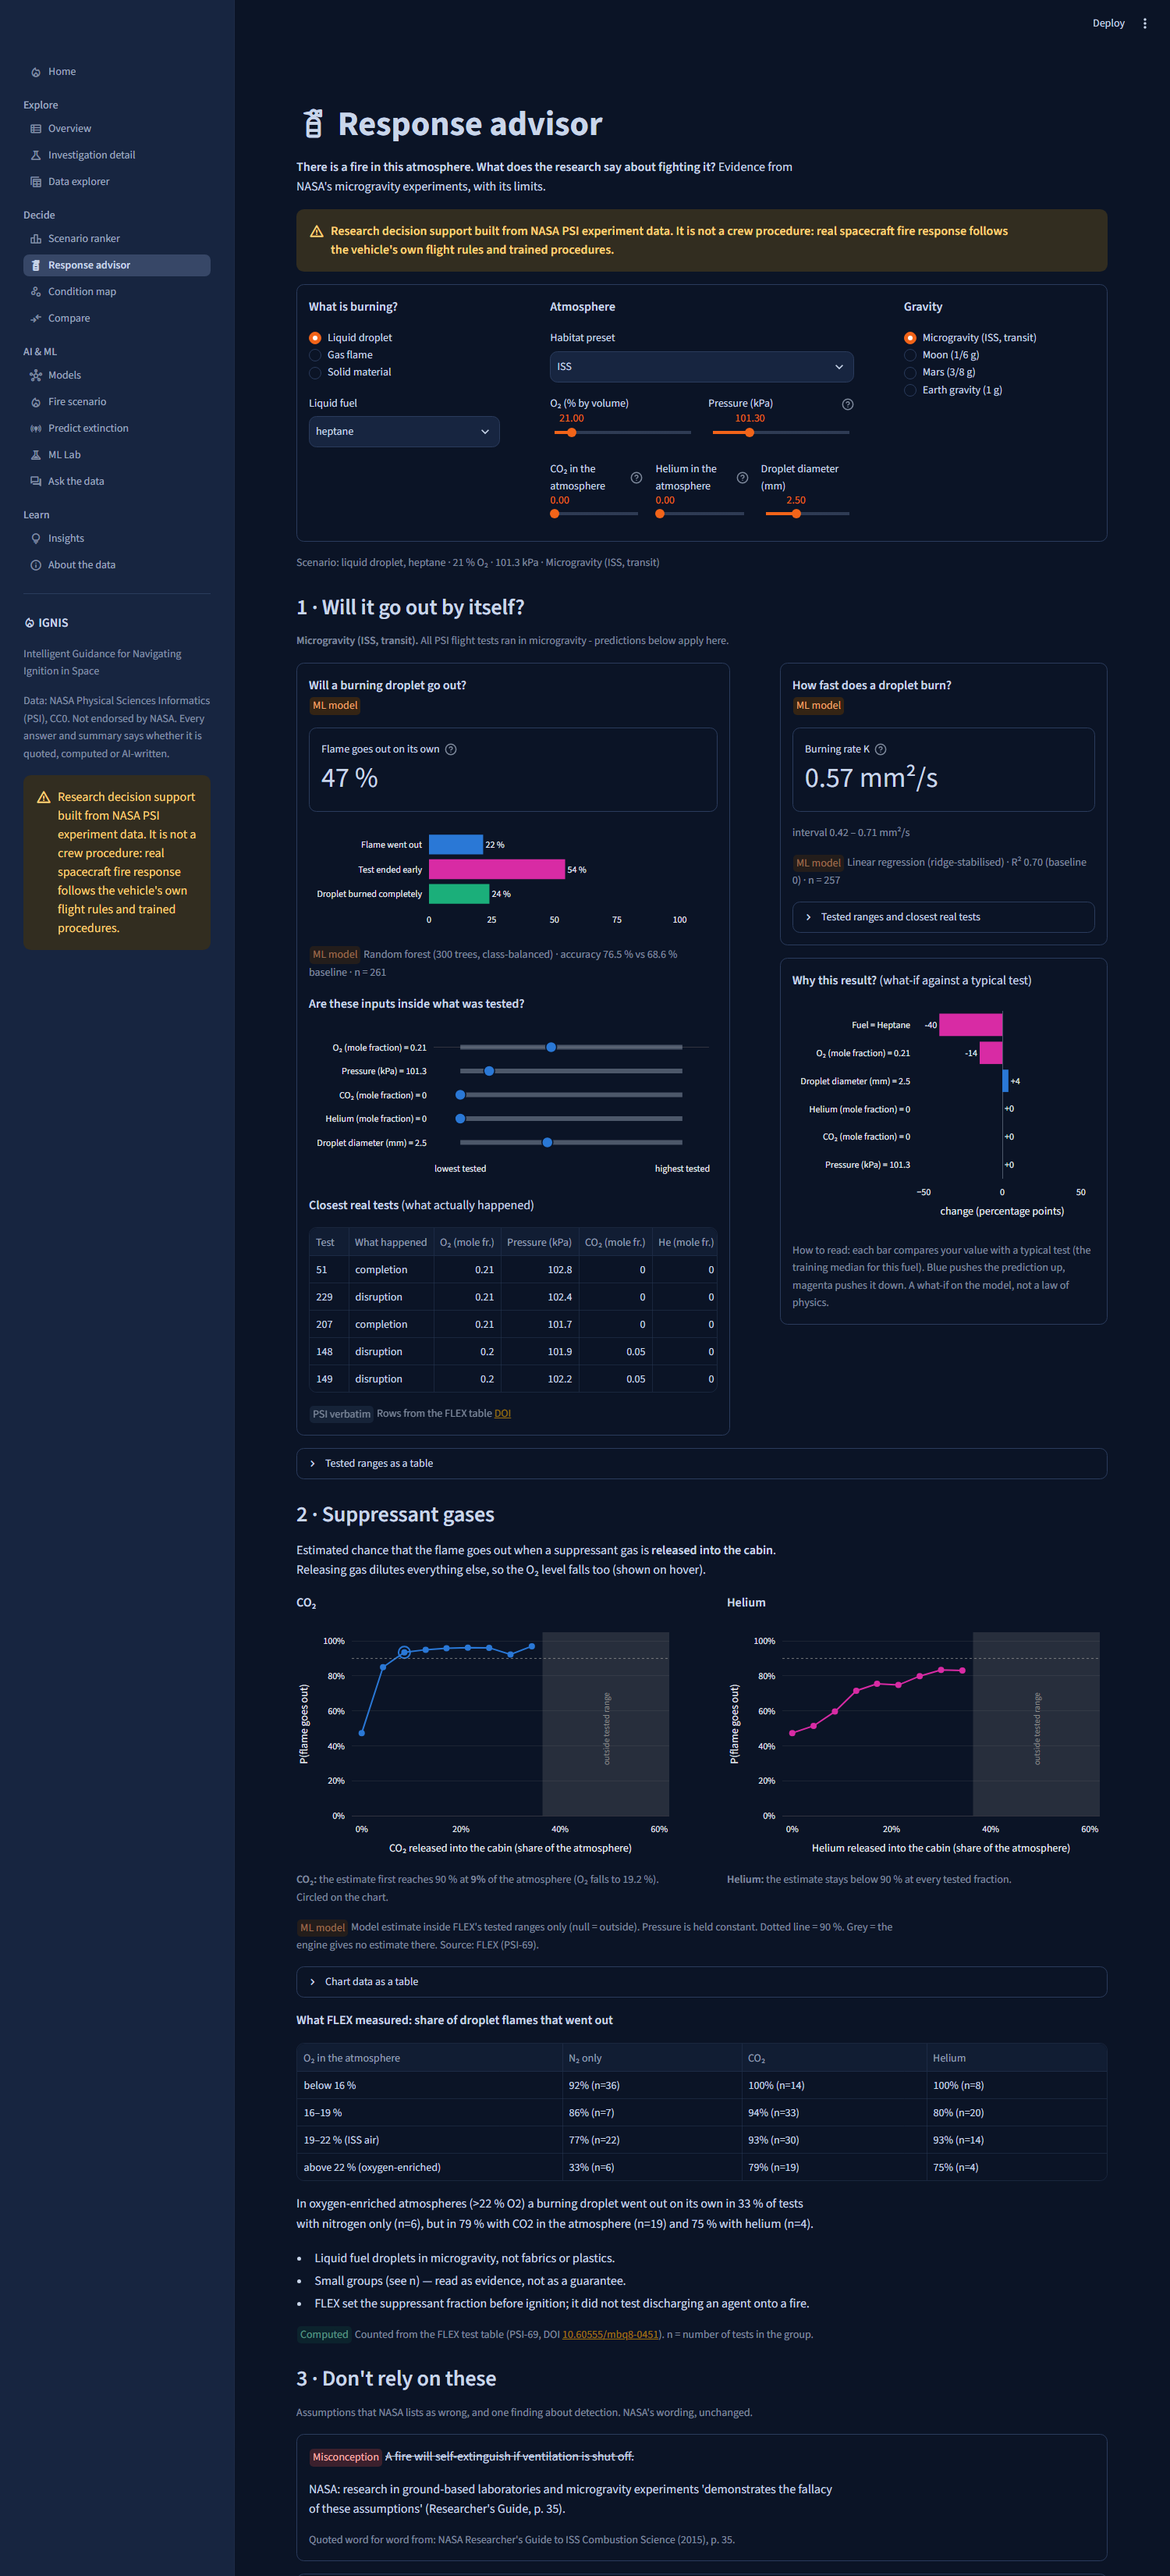
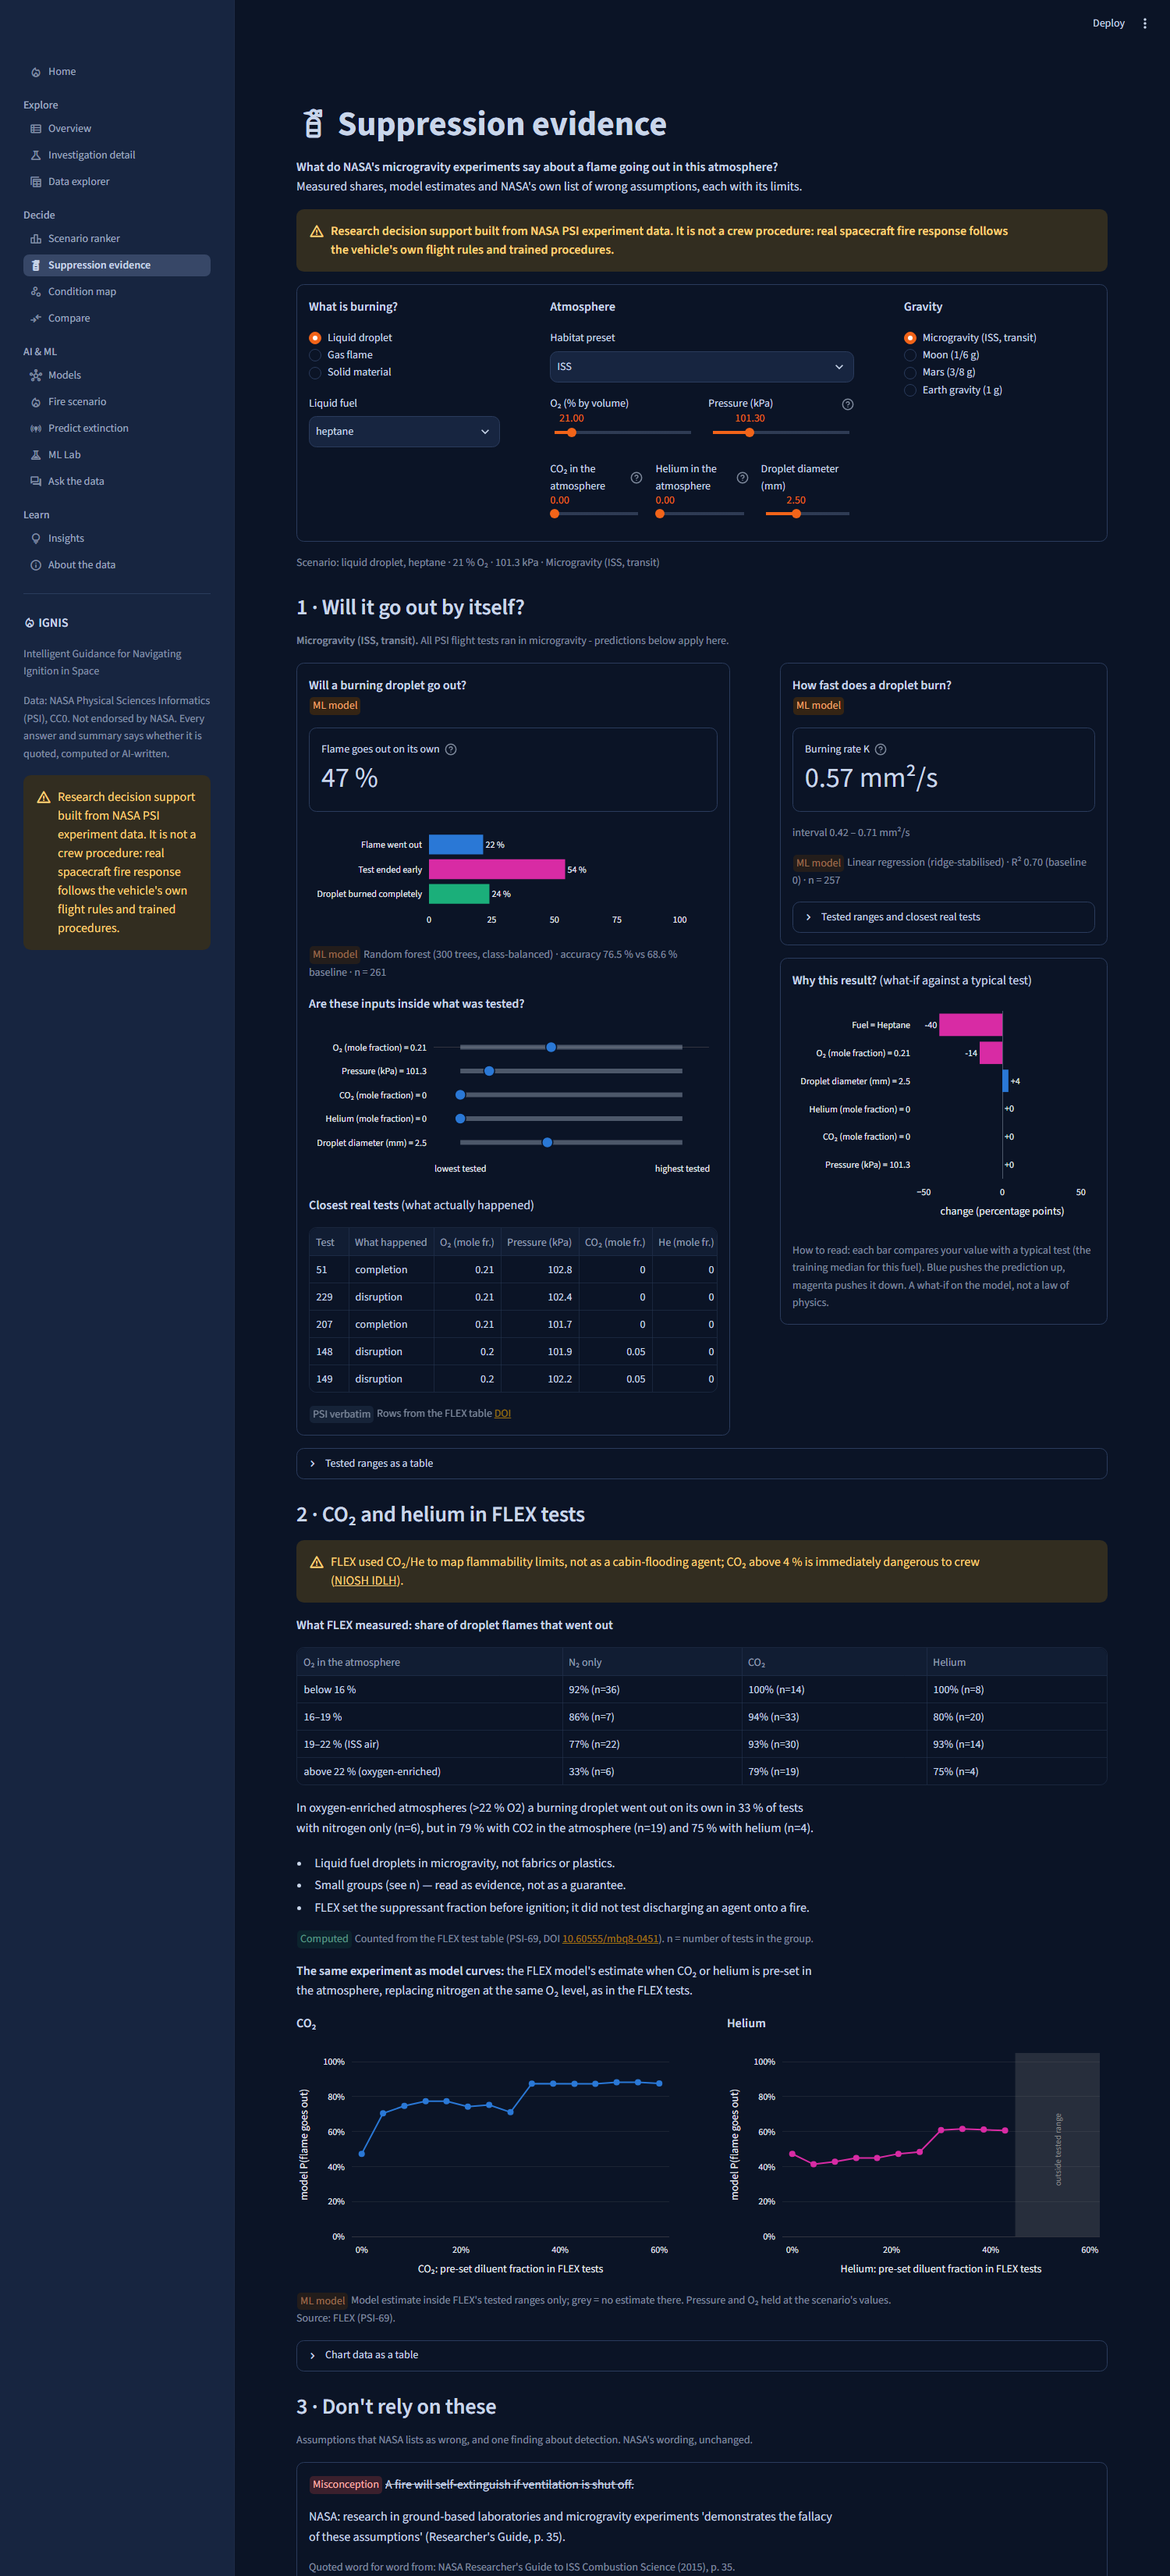
"Suppression evidence" (was Response advisor): no dosing reading, NIOSH caveat, FLEX pre-set curves
#65 item 2 (external review, safety framing):
- Page and nav renamed "Suppression evidence"; URL stays /response so links keep working.
- Removed "released into the cabin", the "first reaches 90 % at X %" call-outs, the 90 % line and the
  circled point. The model curves now come from the scenario engine in "replace_n2" mode (diluent
  replaces nitrogen at the scenario's O2 level, as FLEX pre-set its tests); axis "pre-set diluent
  fraction in FLEX tests", hover "O2 held at …".
- Caveat line at the top of the section, with its source: "FLEX used CO2/He to map flammability limits,
  not as a cabin-flooding agent; CO2 above 4 % is immediately dangerous to crew (NIOSH IDLH)" ->
  https://www.cdc.gov/niosh/idlh/124389.html.
- The counted FLEX shares (33 % / 79 % / 75 % with n) now come first, then the model curves; NASA's
  misconceptions block (p. 35) unchanged.
- Test: none of the removed phrases on the page or in the charts; caveat + source present; counted
  table and misconceptions kept.

Refs #65

diff --git a/app/views/response.py b/app/views/response.py
@@ -1,12 +1,13 @@
-"""Response advisor (#49): what does the research say about fighting a fire in this atmosphere?
-Calls analysis.scenario.response_brief only; the related passages come from ai.qa.ask()."""
+"""Suppression evidence (#49, renamed in #65): what NASA's microgravity experiments say about flames going out in
+this atmosphere, and which assumptions they disproved. Calls analysis.scenario only; the related passages come from
+ai.qa.ask(). URL stays /response so shared links keep working."""
 import streamlit as st
 
 from app import data, fire, ui
 
-ui.page_header("Response advisor", "**There is a fire in this atmosphere. What does the research say about "
-                                   "fighting it?** Evidence from NASA's microgravity experiments, with its limits.",
-               ui.ICONS["response"])
+ui.page_header("Suppression evidence", "**What do NASA's microgravity experiments say about a flame going out in this "
+                                       "atmosphere?** Measured shares, model estimates and NASA's own list of wrong "
+                                       "assumptions, each with its limits.", ui.ICONS["response"])
 # 1. Disclaimer first: research decision support, not a crew procedure.
 fire.disclaimer_banner()
 
@@ -22,35 +23,35 @@ ui.section("1 · Will it go out by itself?")
 fire.gravity_block(a)
 fire.prediction_block(a)
 
-# ---------------------------------------------------------------- 3. suppressant gases
-ui.section("2 · Suppressant gases")
+# ---------------------------------------------------------------- 3. CO2 and helium in FLEX tests (#65 item 2)
+ui.section("2 · CO₂ and helium in FLEX tests")
+ui.callout("warning", fire.DILUENT_CAVEAT)
 sup = b["suppression"]
-scans = b.get("suppressant_scans") or []
-if scans:
-    st.markdown("Estimated chance that the flame goes out when a suppressant gas is **released into the cabin**. "
-                "Releasing gas dilutes everything else, so the O₂ level falls too (shown on hover).")
-    for col, scan in zip(st.columns(len(scans), gap="large"), scans):
-        with col:
-            st.markdown(f"**{fire.AGENT_NAMES[scan['agent']]}**")
-            st.plotly_chart(fire.scan_chart(scan), width="stretch", config={"displayModeBar": False})
-            st.caption(fire.scan_summary(scan))
-    ui.provenance_label("ml", f"{scans[0]['note']} Dotted line = 90 %. Grey = the engine gives no estimate there. "
-                              f"Source: FLEX ({sup['source']['psi_id']}).")
-    with st.expander("Chart data as a table"):
-        ui.table([{"Agent": fire.AGENT_NAMES[s["agent"]], "Agent released (%)": round(p["agent_frac"] * 100, 1),
-                       "Resulting O₂ (%)": round(p["o2_frac"] * 100, 1),
-                       "P(flame goes out)": "outside tested range" if p["p_goes_out"] is None
-                       else f"{p['p_goes_out']:.0%}"} for s in scans for p in s["points"]], hide_index=True)
-else:
-    ui.empty_state("The suppressant-gas estimate exists only for liquid droplets in microgravity, inside the range "
-                   "FLEX tested. For this scenario the engine gives no estimate; the measured evidence is below.")
-
 st.markdown("**What FLEX measured: share of droplet flames that went out**")
 fire.evidence_table(sup)
 st.markdown(sup["headline"])
 st.markdown("\n".join(f"- {c}" for c in sup["caveats"]))
 ui.provenance_label("computed", f"Counted from the FLEX test table ({sup['source']['psi_id']}, DOI "
                                 f"{ui.source_link(sup['source']['doi'])}). n = number of tests in the group.")
+
+scans = fire.diluent_scans(scenario) if a.get("prediction") else []
+if scans:
+    st.markdown("**The same experiment as model curves:** the FLEX model's estimate when CO₂ or helium is pre-set in "
+                "the atmosphere, replacing nitrogen at the same O₂ level, as in the FLEX tests.")
+    for col, scan in zip(st.columns(len(scans), gap="large"), scans):
+        with col:
+            st.markdown(f"**{fire.AGENT_NAMES[scan['agent']]}**")
+            st.plotly_chart(fire.scan_chart(scan), width="stretch", config={"displayModeBar": False})
+    ui.provenance_label("ml", "Model estimate inside FLEX's tested ranges only; grey = no estimate there. Pressure and "
+                              f"O₂ held at the scenario's values. Source: FLEX ({sup['source']['psi_id']}).")
+    with st.expander("Chart data as a table"):
+        ui.table([{"Diluent": fire.AGENT_NAMES[s["agent"]], "Pre-set fraction (%)": round(p["agent_frac"] * 100, 1),
+                   "O₂ (%)": round(p["o2_frac"] * 100, 1),
+                   "Model P(flame goes out)": "outside tested range" if p["p_goes_out"] is None
+                   else f"{p['p_goes_out']:.0%}"} for s in scans for p in s["points"]])
+else:
+    ui.empty_state("The model curves exist only for liquid droplets in microgravity, inside the range FLEX tested. "
+                   "For this scenario there is no estimate; the measured shares above still apply to FLEX droplets.")
 
 # ---------------------------------------------------------------- 4. don't rely on these
 ui.section("3 · Don't rely on these")

diff --git a/app/fire.py b/app/fire.py
@@ -1,4 +1,4 @@
-"""Shared parts of the Fire scenario and Response advisor pages (#49).
+"""Shared parts of the Fire scenario and Suppression evidence pages (#49, #65).
 
 Everything shown comes from main's engine, analysis/scenario.py (assess, response_brief). This module only
 collects the inputs, caches the calls and renders the returned blocks. No modelling happens here.
@@ -276,9 +276,33 @@ def limits_and_sources(a: dict, extra_sources: list[dict] | None = None) -> None
     st.markdown("\n".join(lines))
 
 
-# ---------------------------------------------------------------- suppression (Response advisor)
+# ---------------------------------------------------------------- suppression evidence (#65 item 2)
+NIOSH_CO2_IDLH = "https://www.cdc.gov/niosh/idlh/124389.html"
+DILUENT_CAVEAT = ("FLEX used CO₂/He to map flammability limits, not as a cabin-flooding agent; CO₂ above 4 % is "
+                  f"immediately dangerous to crew ([NIOSH IDLH]({NIOSH_CO2_IDLH})).")
+
+
+@st.cache_data(show_spinner="Computing the model curves…")
+def _diluent_scans(fuel: str, o2_frac: float, pressure_kPa: float, d0_mm: float) -> list[dict]:
+    """The scenario engine's scans in 'replace_n2' mode: the diluent replaces nitrogen at a constant O2 fraction,
+    which is how FLEX pre-set its tests (not a gas released into a cabin)."""
+    from analysis.scenario import suppressant_scan
+    return [suppressant_scan(fuel, o2_frac, pressure_kPa, agent, d0_mm, mode="replace_n2") for agent in ("CO2", "He")]
+
+
+def diluent_scans(s: dict) -> list[dict]:
+    """Model curves for a droplet scenario, [] for any other fuel class (the model only covers FLEX droplets)."""
+    if s.get("fuel_class") != "droplet":
+        return []
+    try:
+        return _diluent_scans(s["fuel"], s["o2_frac"], s["pressure_kPa"], s.get("d0_mm", 2.5))
+    except ImportError:
+        return []
+
+
 def scan_chart(scan: dict) -> go.Figure:
-    """P(flame goes out) vs fraction of suppressant gas released into the cabin, for one agent."""
+    """Model P(flame goes out) vs the diluent fraction pre-set in the atmosphere, for one agent. No threshold line
+    or 'reaches X %' marker: this is a flammability map from FLEX, not a dose (#65 item 2)."""
     agent, colour = scan["agent"], AGENT_COLOURS[scan["agent"]]
     name = AGENT_NAMES[agent]
     pts = scan["points"]
@@ -295,35 +319,16 @@ def scan_chart(scan: dict) -> go.Figure:
             fig.add_annotation(x=(run[0] + run[1]) / 2, y=0.5, text="outside tested range", textangle=-90,
                                showarrow=False, font=dict(size=11, color="rgba(140,140,140,1)"))
             run = None
-    fig.add_hline(y=0.9, line=dict(color="rgba(140,140,140,0.8)", dash="dot", width=1))
     fig.add_scatter(x=[p["agent_frac"] for p in ok], y=[p["p_goes_out"] for p in ok], mode="lines+markers",
                     name=name, line=dict(color=colour, width=2), marker=dict(size=8, color=colour),
                     customdata=[p["o2_frac"] for p in ok],
-                    hovertemplate=f"{name} released: %{{x:.0%}}<br>O₂ falls to %{{customdata:.1%}}<br>"
-                                  "P(flame goes out): %{y:.0%}<extra></extra>")
-    reach = scan.get("first_fraction_reaching_90pct")
-    if reach is not None:
-        p90 = next(p for p in ok if p["agent_frac"] == reach)
-        fig.add_scatter(x=[reach], y=[p90["p_goes_out"]], mode="markers", showlegend=False, hoverinfo="skip",
-                        marker=dict(size=15, color="rgba(0,0,0,0)", line=dict(width=2, color=colour)))
+                    hovertemplate=f"{name} pre-set (replacing N₂): %{{x:.0%}}<br>O₂ held at %{{customdata:.1%}}<br>"
+                                  "model P(flame goes out): %{y:.0%}<extra></extra>")
     fig.update_layout(height=300, margin=dict(l=0, r=10, t=10, b=0), showlegend=False,
-                      xaxis=dict(title=f"{name} released into the cabin (share of the atmosphere)", tickformat=".0%",
+                      xaxis=dict(title=f"{name}: pre-set diluent fraction in FLEX tests", tickformat=".0%",
                                  range=[-0.02, 0.62], gridcolor=GRID),
-                      yaxis=dict(title="P(flame goes out)", tickformat=".0%", range=[0, 1.05], gridcolor=GRID))
+                      yaxis=dict(title="model P(flame goes out)", tickformat=".0%", range=[0, 1.05], gridcolor=GRID))
     return fig
-
-
-def scan_summary(scan: dict) -> str:
-    name, reach = AGENT_NAMES[scan["agent"]], scan.get("first_fraction_reaching_90pct")
-    if not scan.get("supported_points"):
-        return f"**{name}:** every point is outside FLEX's tested range, so there is no estimate."
-    if reach is None:
-        return f"**{name}:** the estimate stays below 90 % at every tested fraction."
-    p = next(x for x in scan["points"] if x["agent_frac"] == reach)
-    if reach == 0:
-        return f"**{name}:** the estimate is already ≥ 90 % with no agent added."
-    return (f"**{name}:** the estimate first reaches 90 % at **{reach:.0%}** of the atmosphere "
-            f"(O₂ falls to {p['o2_frac'] * 100:.1f} %). Circled on the chart.")
 
 
 def evidence_table(sup: dict) -> None:

diff --git a/app/tests/test_app_pages.py b/app/tests/test_app_pages.py
@@ -619,9 +619,17 @@ def test_scenario_earth_shows_the_saffire_comparison():
 
 
 def test_response_advisor_sections():
+    """Suppression evidence (#65 item 2): no dosing reading. No 'released into the cabin', no 'first reaches
+    90 % at X %', the NIOSH caveat with its source, curves at a pre-set diluent fraction, counted shares kept."""
     at = _fire_page("response")
-    assert len(at.get("plotly_chart")) >= 5      # prediction cards + explanation + CO2 scan + He scan
-    assert any("released into the cabin" in m.value for m in at.markdown)
+    assert any("Suppression evidence" in t.value for t in at.title)
+    assert len(at.get("plotly_chart")) >= 5      # prediction cards + explanation + CO2 curve + He curve
+    text = _page_text(at)
+    assert "released into the cabin" not in text and "first reaches 90" not in text and "Dotted line" not in text
+    assert any("not as a cabin-flooding agent" in w.value and "cdc.gov/niosh/idlh/124389" in w.value
+               for w in at.warning)
+    charts = " ".join(str(c.proto.spec) for c in at.get("plotly_chart"))
+    assert "pre-set diluent fraction in FLEX tests" in charts and "released" not in charts
     table = next(d.value for d in at.dataframe if "O₂ in the atmosphere" in d.value.columns)
     assert len(table) == 4 and table["CO₂"].str.contains(r"\(n=\d+\)").all()
     text = _page_text(at)

diff --git a/app/nav.py b/app/nav.py
@@ -19,7 +19,7 @@ PAGE_SPECS = [
     ("views/explorer.py", "Data explorer", ICONS["explorer"], "Every test row: filter, check corrections, download."),
     ("views/ranker.py", "Scenario ranker", ICONS["ranker"], "Which experiments matter for your habitat?"),
     ("views/scenario.py", "Fire scenario", ICONS["scenario"], "What would a fire do in this atmosphere?"),
-    ("views/response.py", "Response advisor", ICONS["response"], "What the research says about fighting it."),
+    ("views/response.py", "Suppression evidence", ICONS["response"], "What NASA tests say about flames going out."),
     ("views/condition_map.py", "Condition map", ICONS["condition_map"], "Tested O₂ / pressure vs habitat atmospheres."),
     ("views/models.py", "Models", ICONS["models"], "Every model: score vs baseline, limits, a playground."),
     ("views/predict.py", "Predict extinction", ICONS["predict"], "Will a burning droplet go out? FLEX model."),

diff --git a/app/README.md b/app/README.md
@@ -28,7 +28,7 @@ Streamlit bypass `st.navigation`). Data loaders with caching: [data.py](data.py)
 | `/explorer` | Data explorer: every test row with filters, ⚠ corrections + original PSI row, CSV download, raw PSI table, PSI file list (links only) | tests.csv, data/experimental_tables/, data/file_index/ |
 | `/ranker?habitat=Mars+base` | Scenario ranker (preset from the URL) | `ai.ranking.rank`, `ai.habitats` |
 | `/scenario` | Fire scenario: what would a fire do in this atmosphere? Prediction where the data allows, otherwise the reason and the evidence | `analysis.scenario.assess` (via `app/fire.py`) |
-| `/response` | Response advisor: will it go out, suppressant gases, NASA's list of misconceptions, related passages | `analysis.scenario.response_brief`, `ai.qa.ask` |
+| `/response` | Suppression evidence (renamed in #65): will it go out, counted FLEX shares with CO₂ / He, model curves at a pre-set diluent fraction, NIOSH caveat, NASA's list of misconceptions, related passages | `analysis.scenario`, `ai.qa.ask` |
 | `/condition_map?gap=solid` | Tests vs habitat atmospheres (`gap=solid` highlights the solid-material gap) | tests.csv, coverage.json |
 | `/predict` | Will a burning droplet go out? (FLEX model) | `analysis.flex_classifier`, analysis/flex_boundary.json |
 | `/ask?q=...` | Cited Q&A (asks `q` straight away) | `ai.qa.ask` |
